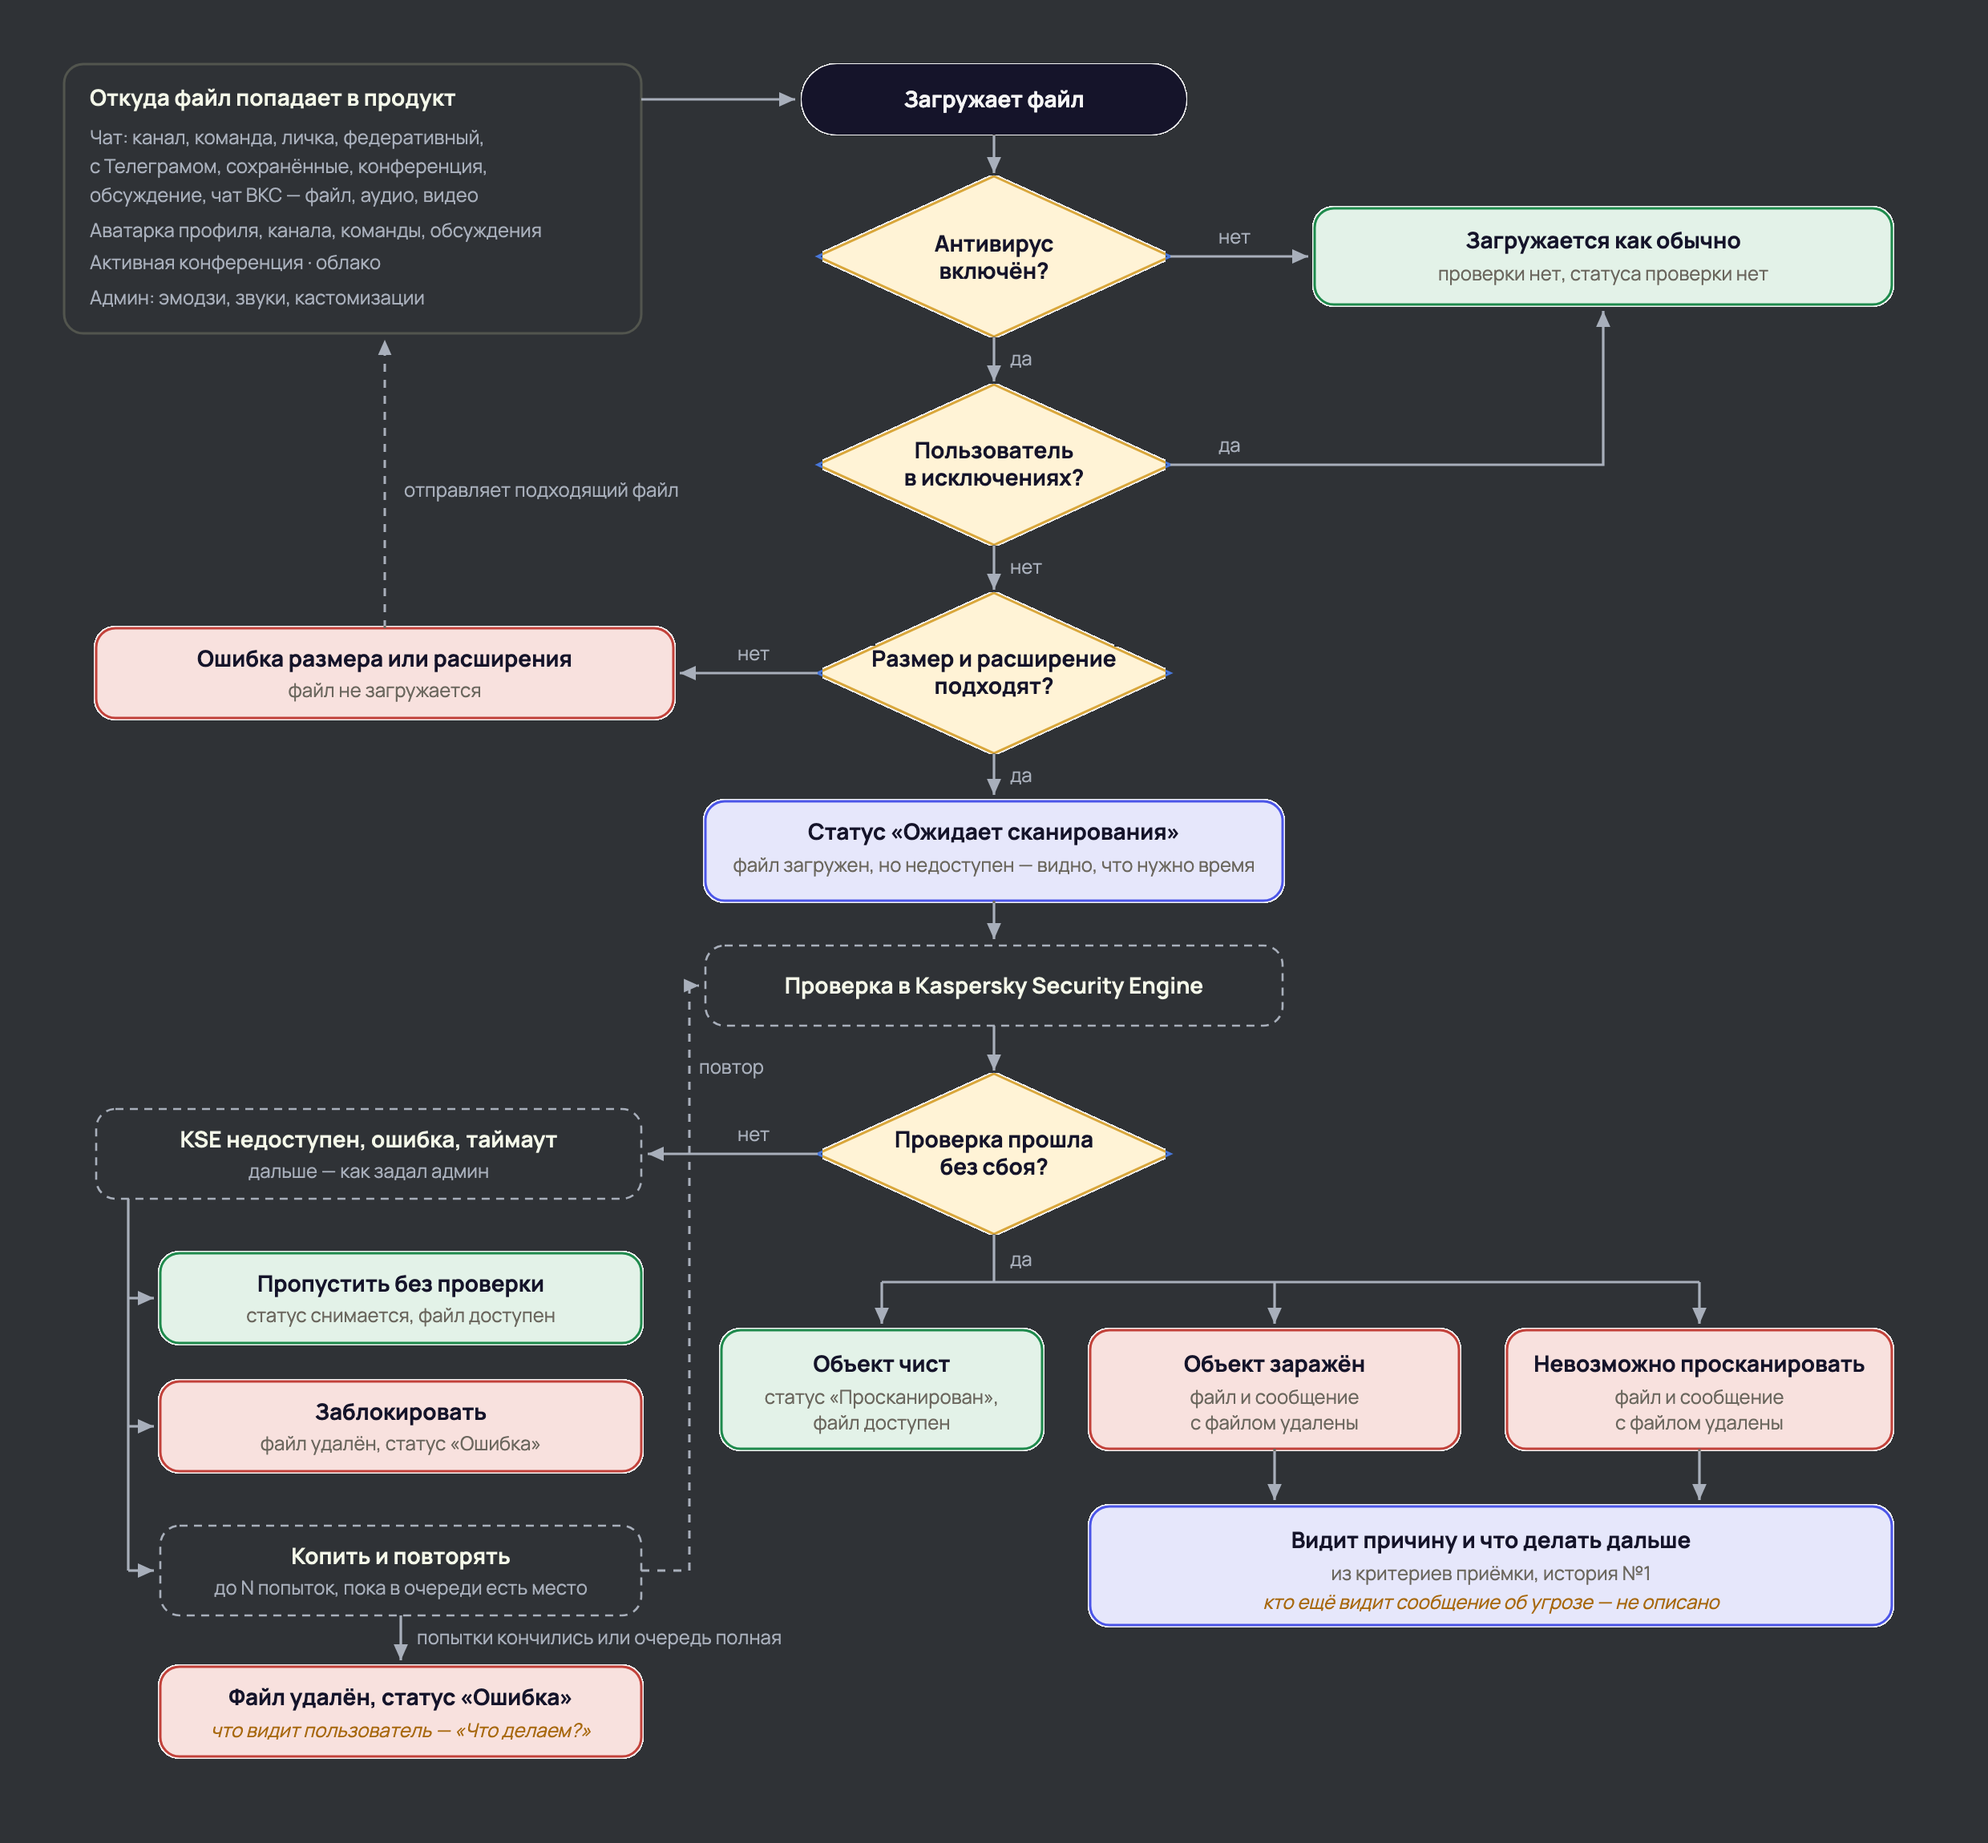
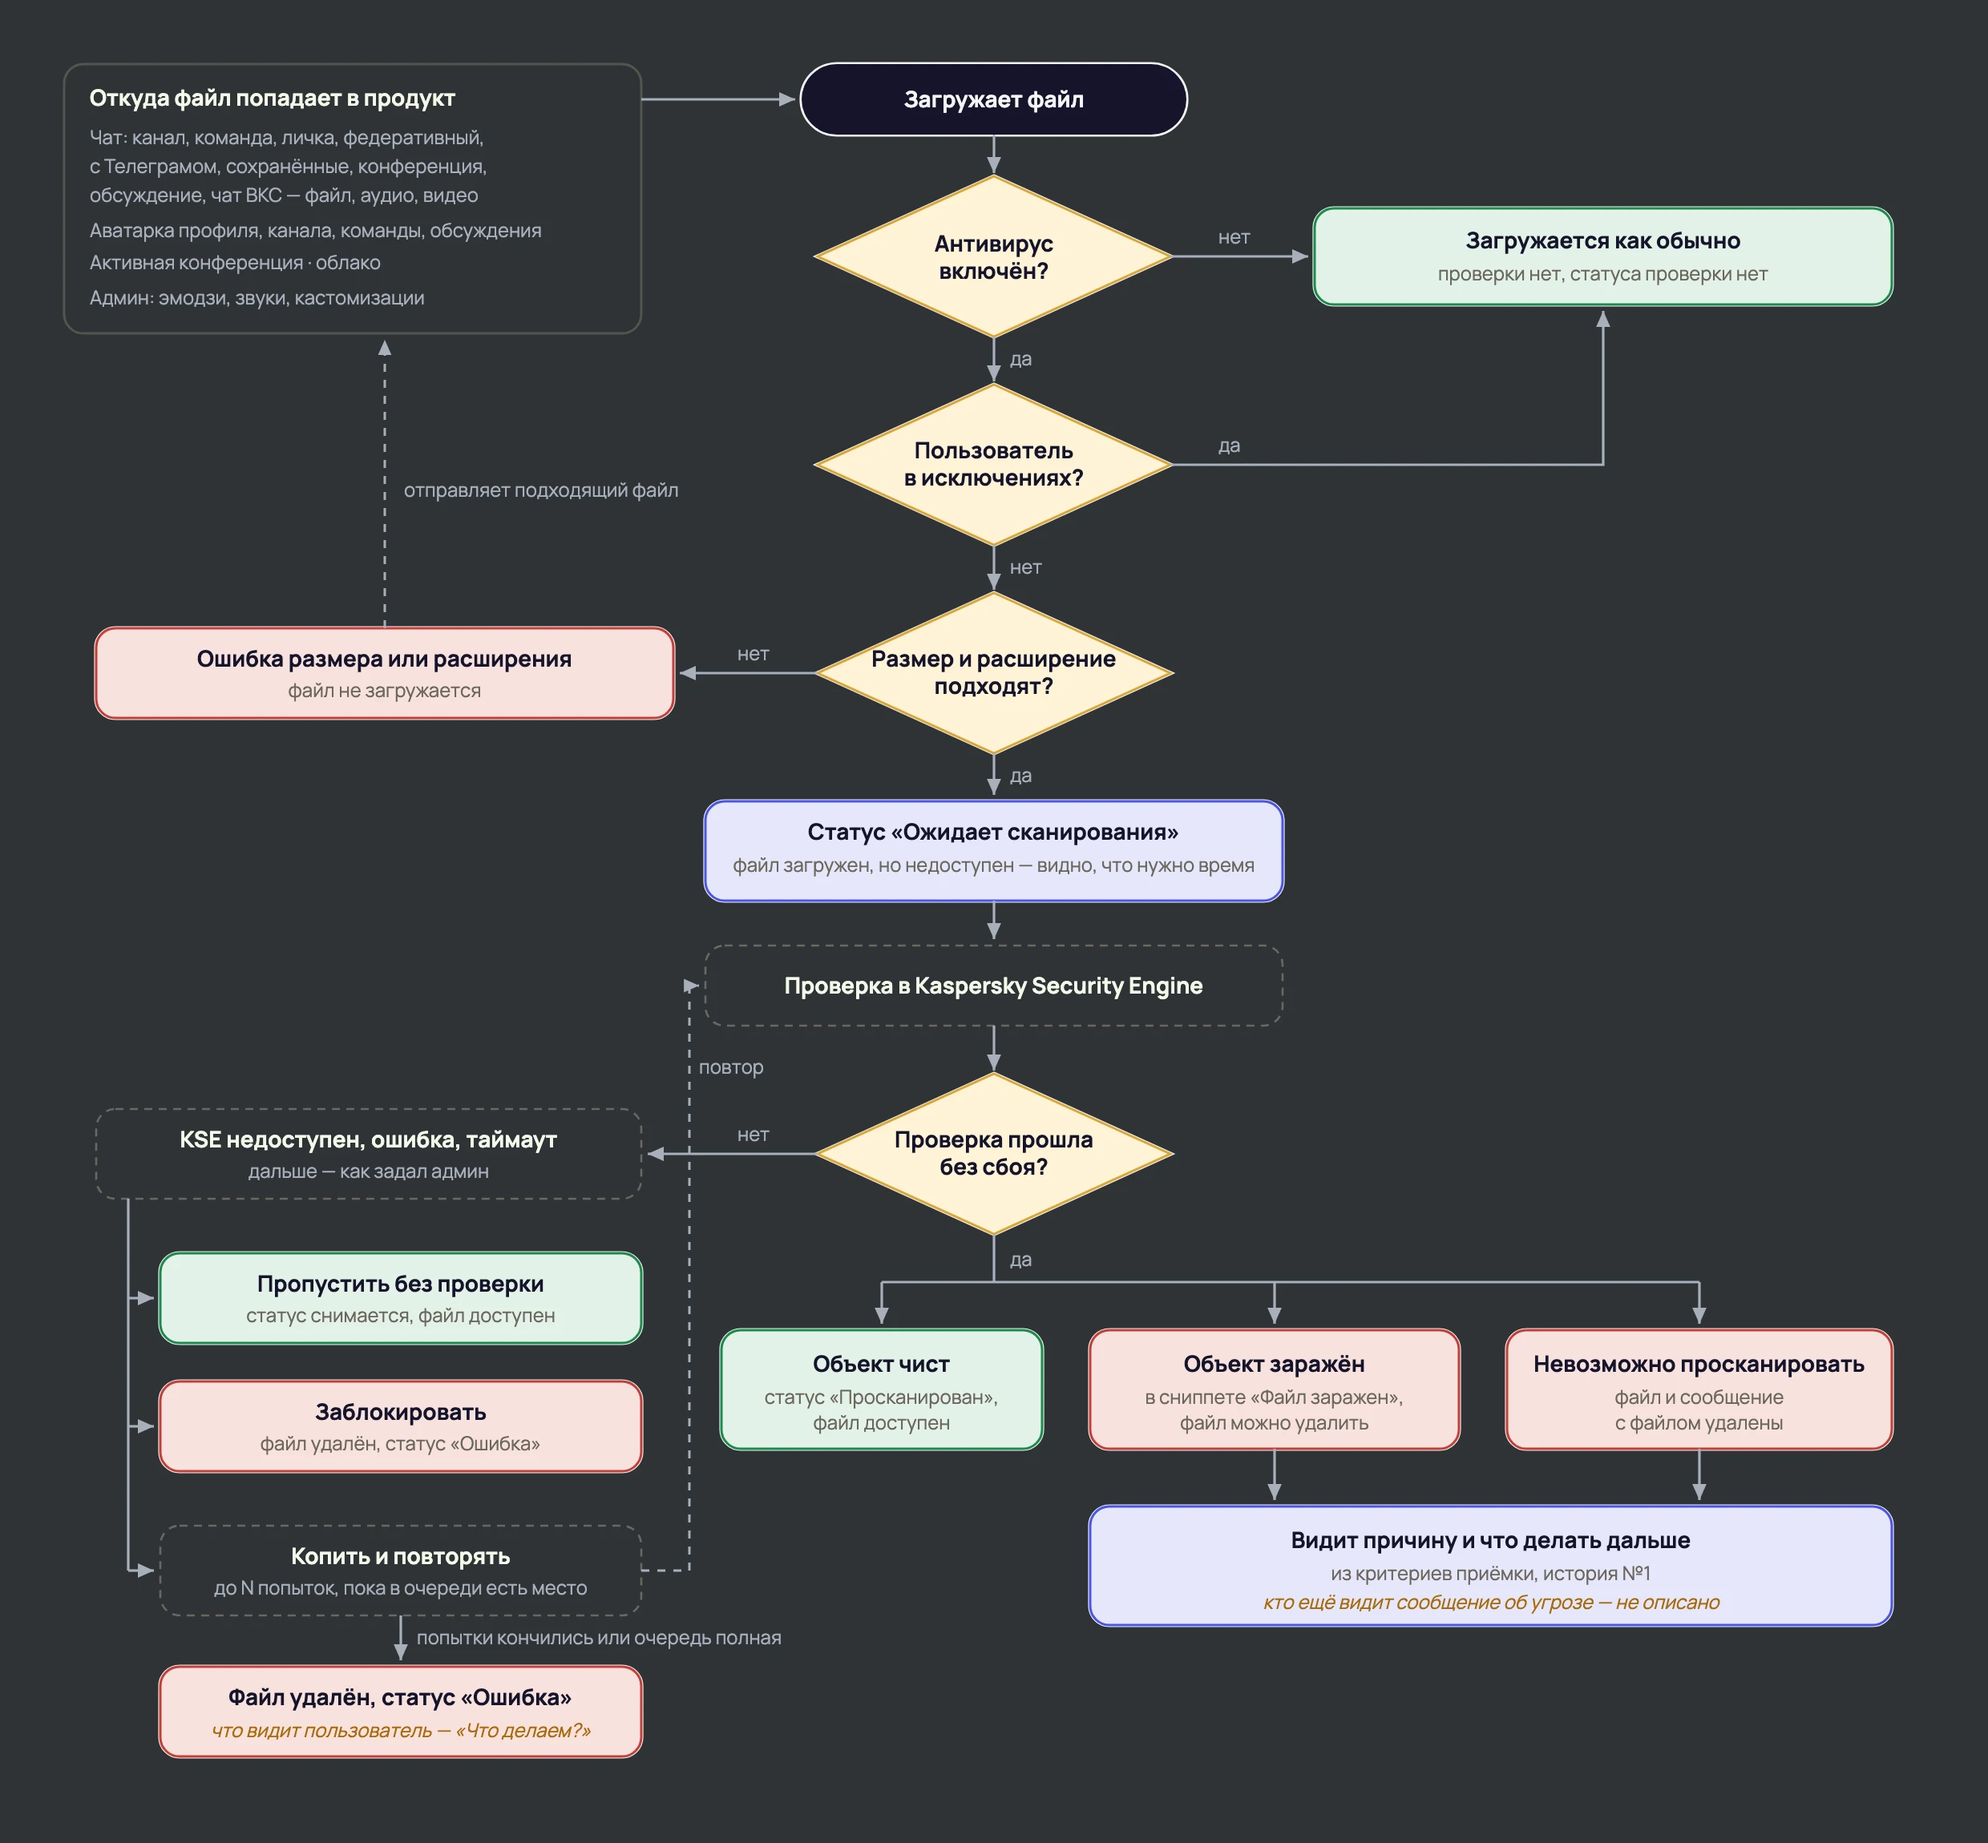
Кейс «Антивирус»: в user flow заражённый файл остаётся в чате с пометкой и его можно удалить

Changed region(s): [[0.652, 0.8643, 0.8694, 0.8952], [0.5899, 0.7409, 0.6831, 0.8026]]

diff --git a/antivirus.html b/antivirus.html
@@ -75,7 +75,7 @@
       <div class="stack stack--40 w-882" style="gap:40px">
         <div class="stack stack--24">
           <h3 class="h3" style="line-height:52px">User flow</h3>
-          <div class="pic pic--r16"><img src="assets/img/case/antivirus/userflow.webp?v=2" width="2480" height="2300" alt="User flow: что происходит с файлом после загрузки" loading="lazy"></div>
+          <div class="pic pic--r16"><img src="assets/img/case/antivirus/userflow.webp?v=3" width="2480" height="2300" alt="User flow: что происходит с файлом после загрузки" loading="lazy"></div>
         </div>
 
         <div class="stack stack--24">
